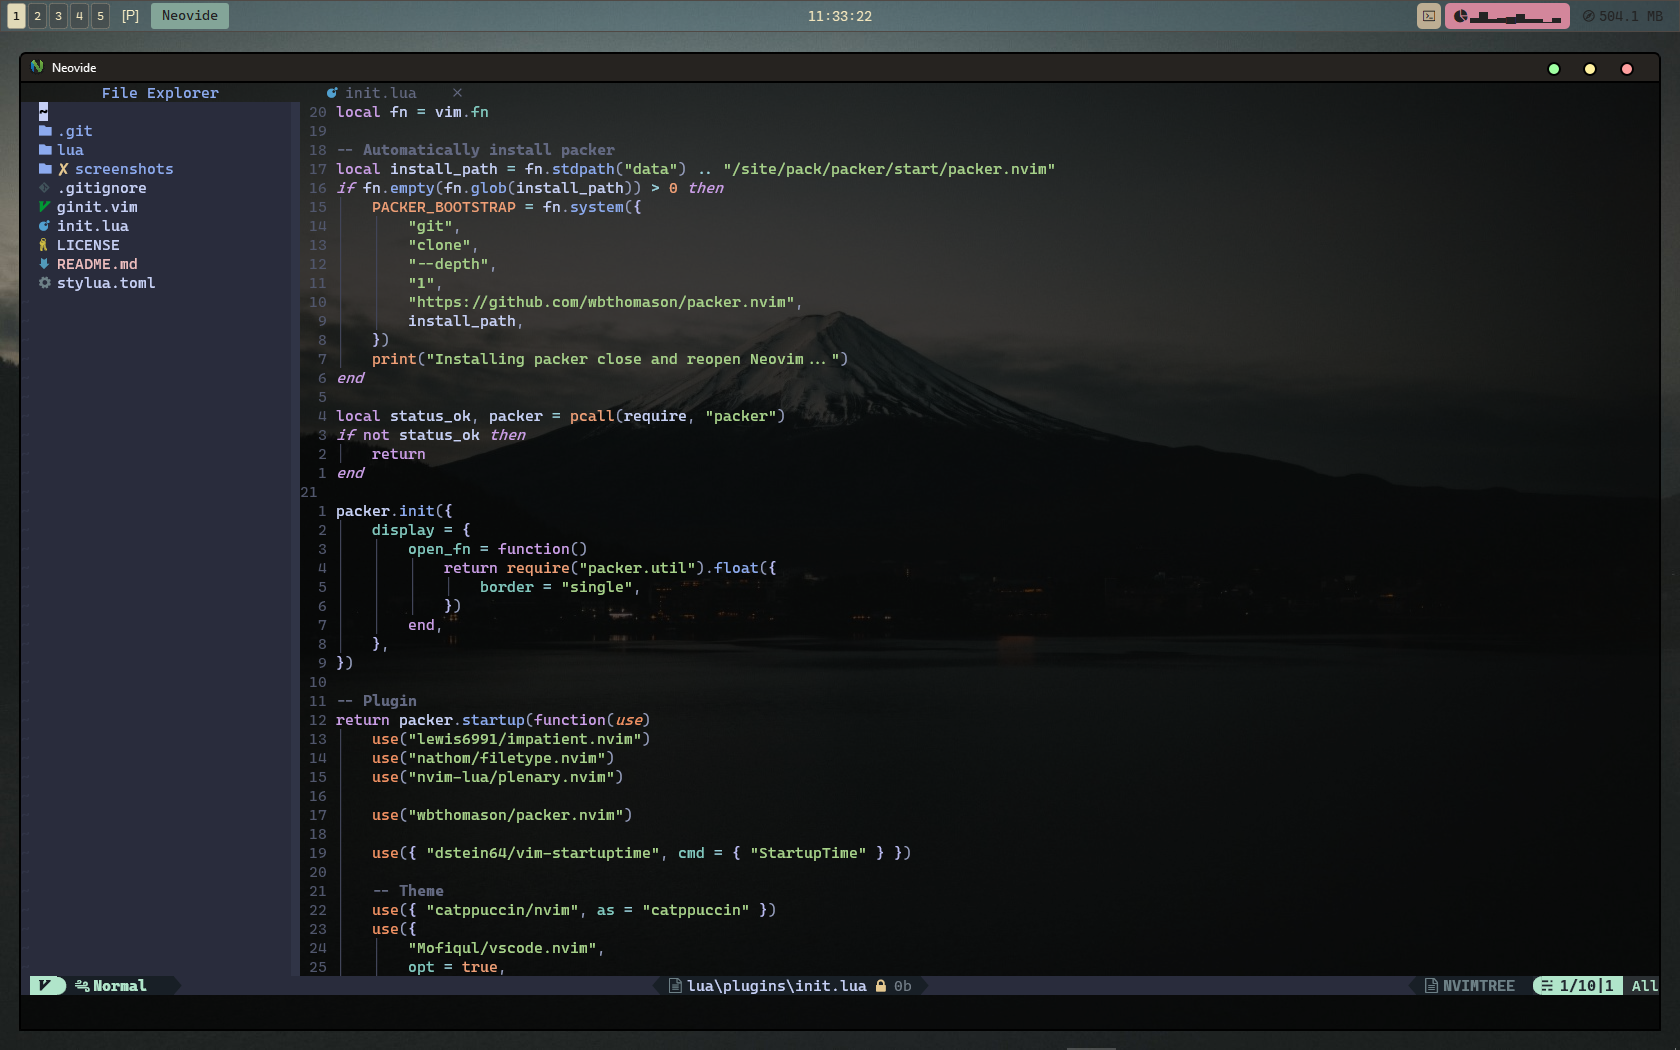
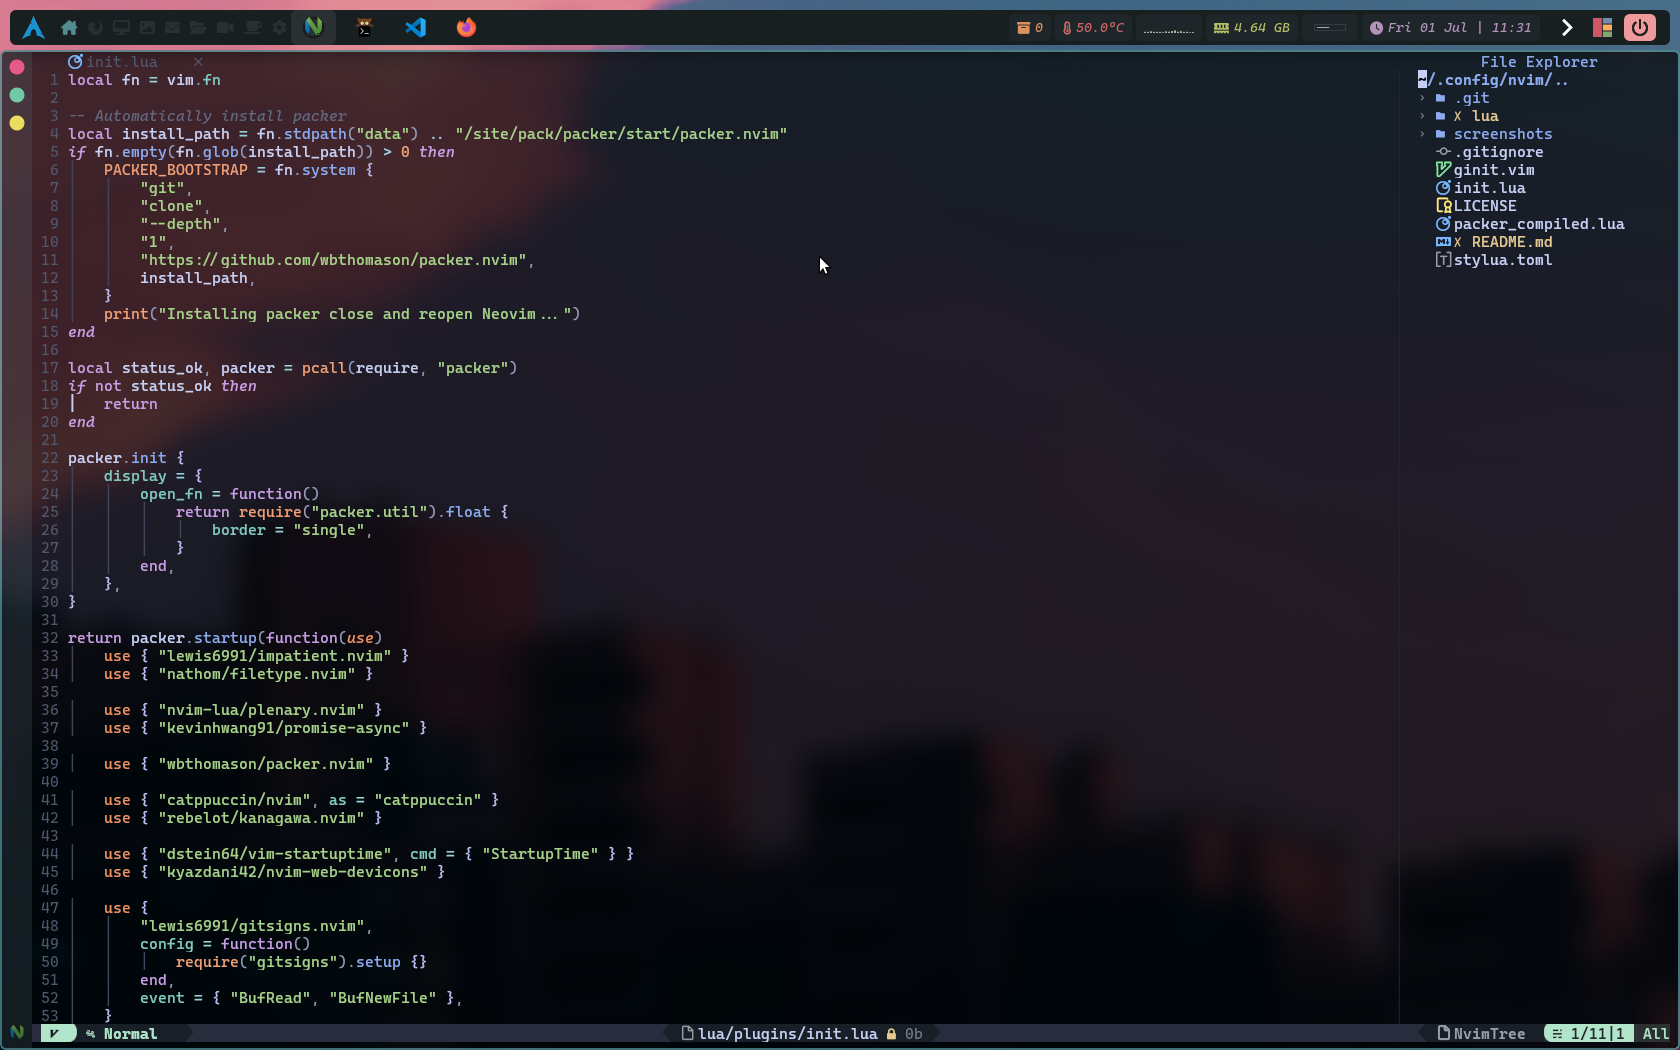
Update screenshots

diff --git a/README.md b/README.md
@@ -13,16 +13,15 @@
 
 ## Requirements
 
-- [Nerd Fonts](https://www.nerdfonts.com/font-downloads)
 - [Neovim nightly](https://github.com/neovim/neovim/releases/tag/nightly)
-- [Node.js](https://nodejs.org)
-- [Lua language server](https://github.com/sumneko/lua-language-server)
+- [Nerd Fonts](https://www.nerdfonts.com/font-downloads)
 
 ## Optional
 
+- [Nonicons](https://github.com/AkagiYuu/nonicons) (for extra glyphs)
+- [Language server protocol](https://github.com/neovim/nvim-lspconfig/blob/master/doc/server_configurations.md)
 - [Ripgrep](https://github.com/BurntSushi/ripgrep)
 - [fd](https://github.com/sharkdp/fd)
-- [Language server protocol](https://github.com/neovim/nvim-lspconfig/blob/master/doc/server_configurations.md)
 
 ## Installation
 
@@ -61,25 +60,35 @@ For windows terminal users, add the following line to settings.json for ctrl + s
 ## Plugins
 
 - [Packer](https://github.com/wbthomason/packer.nvim)
-- [Impatient](https://github.com/lewis6991/impatient.nvim)
-- [Plenary](https://github.com/nvim-lua/plenary.nvim)
 - [Filetype](https://github.com/nathom/filetype.nvim)
-- [Feline](https://github.com/feline-nvim/feline.nvim)
+- [Impatient](https://github.com/lewis6991/impatient.nvim)
+- Library
+  - [Plenary](https://github.com/nvim-lua/plenary.nvim)
+  - [Promise-Async](https://github.com/kevinhwang91/promise-async)
+
+- Theme
+  - [Catppuccin](https://github.com/catppuccin/nvim)
+  - [Kanagawa](https://github.com/rebelot/kanagawa.nvim)
+
+- [Git signs](https://github.com/lewis6991/gitsigns.nvim)
+- [Heirline](https://github.com/rebelot/heirline.nvim)
+- [Lightspeed](https://github.com/ggandor/lightspeed.nvim)
+- [Notify](https://github.com/rcarriga/nvim-notify)
+- [Hydra](https://github.com/anuvyklack/hydra.nvim)
+- [Whichkey](https://github.com/folke/which-key.nvim)
 - [Bufferline](https://github.com/akinsho/bufferline.nvim)
+- [Cybu](https://github.com/ghillb/cybu.nvim)
 - [Treesitter](https://github.com/nvim-treesitter/nvim-treesitter)
   - [ts-autotag](https://github.com/windwp/nvim-ts-autotag)
+  - ...
 - [Nvimtree](https://github.com/kyazdani42/nvim-tree.lua)
 - [Telescope](https://github.com/nvim-telescope/telescope.nvim)
   - [Fzf](https://github.com/nvim-telescope/telescope-fzf-native.nvim)
   - [File browser](https://github.com/nvim-telescope/telescope-file-browser.nvim)
 - [Sidebar](https://github.com/sidebar-nvim/sidebar.nvim)
-- Language server protocol
-  - [Lspconfig](https://github.com/neovim/nvim-lspconfig)
-  - [Cmp-lsp](https://github.com/hrsh7th/cmp-nvim-lsp)
-  - [Null-ls](https://github.com/jose-elias-alvarez/null-ls.nvim)
-  - [Lspsaga](https://github.com/tami5/lspsaga.nvim)
-- Completion
-  - [Cmp](https://github.com/hrsh7th/nvim-cmp)
+- [Lspconfig](https://github.com/neovim/nvim-lspconfig)
+- [Lspsaga](https://github.com/tami5/lspsaga.nvim)
+- [Cmp](https://github.com/hrsh7th/nvim-cmp)
   - [Luasnip](https://github.com/L3MON4D3/LuaSnip)
   - [Cmp-luasnip](https://github.com/saadparwaiz1/cmp_luasnip)
   - [Friendly snippets](https://github.com/rafamadriz/friendly-snippets)
@@ -89,22 +98,13 @@ For windows terminal users, add the following line to settings.json for ctrl + s
   - [Copilot](https://github.com/zbirenbaum/copilot-cmp)
   - ...
 - [Comment](https://github.com/numToStr/Comment.nvim)
-- [Auto pair](https://github.com/windwp/nvim-autopairs)
 - [Terminal](https://github.com/akinsho/toggleterm.nvim)
 - [Trouble](https://github.com/folke/trouble.nvim)
-- [Lightspeed](https://github.com/ggandor/lightspeed.nvim)
 - [Indent blankline](https://github.com/lukas-reineke/indent-blankline.nvim)
 - [Cursorline](https://github.com/yamatsum/nvim-cursorline)
-- [Colorizer](https://github.com/norcalli/nvim-colorizer.lua)
 - [Zenmode](https://github.com/folke/zen-mode.nvim)
   - [Twilight](https://github.com/folke/twilight.nvim)
-- [Git signs](https://github.com/lewis6991/gitsigns.nvim)
-- Theme
-  - [Catppuccin](https://github.com/catppuccin/nvim)
-- Icon
-  - [nvim-web-devicons](https://github.com/kyazdani42/nvim-web-devicons)
-- [Notify](https://github.com/rcarriga/nvim-notify)
-- [Whichkey](https://github.com/folke/which-key.nvim)
 - [Startup time](https://github.com/dstein64/vim-startuptime)
 - [hlargs.nvim](https://github.com/m-demare/hlargs.nvim)
 - [focus.nvim](https://github.com/beauwilliams/focus.nvim)
+- ...
